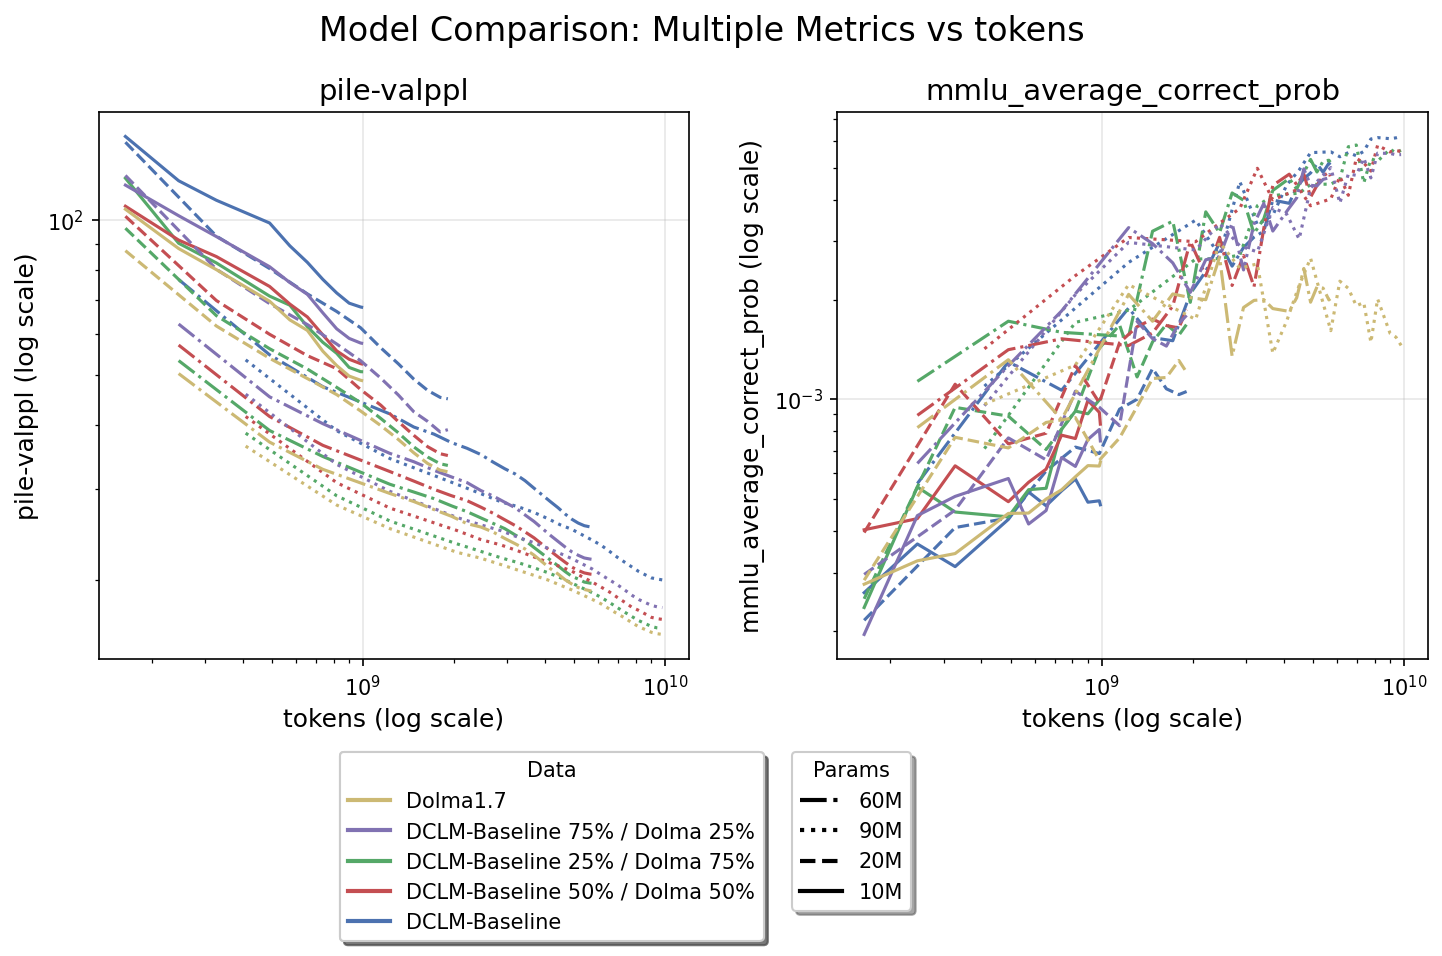
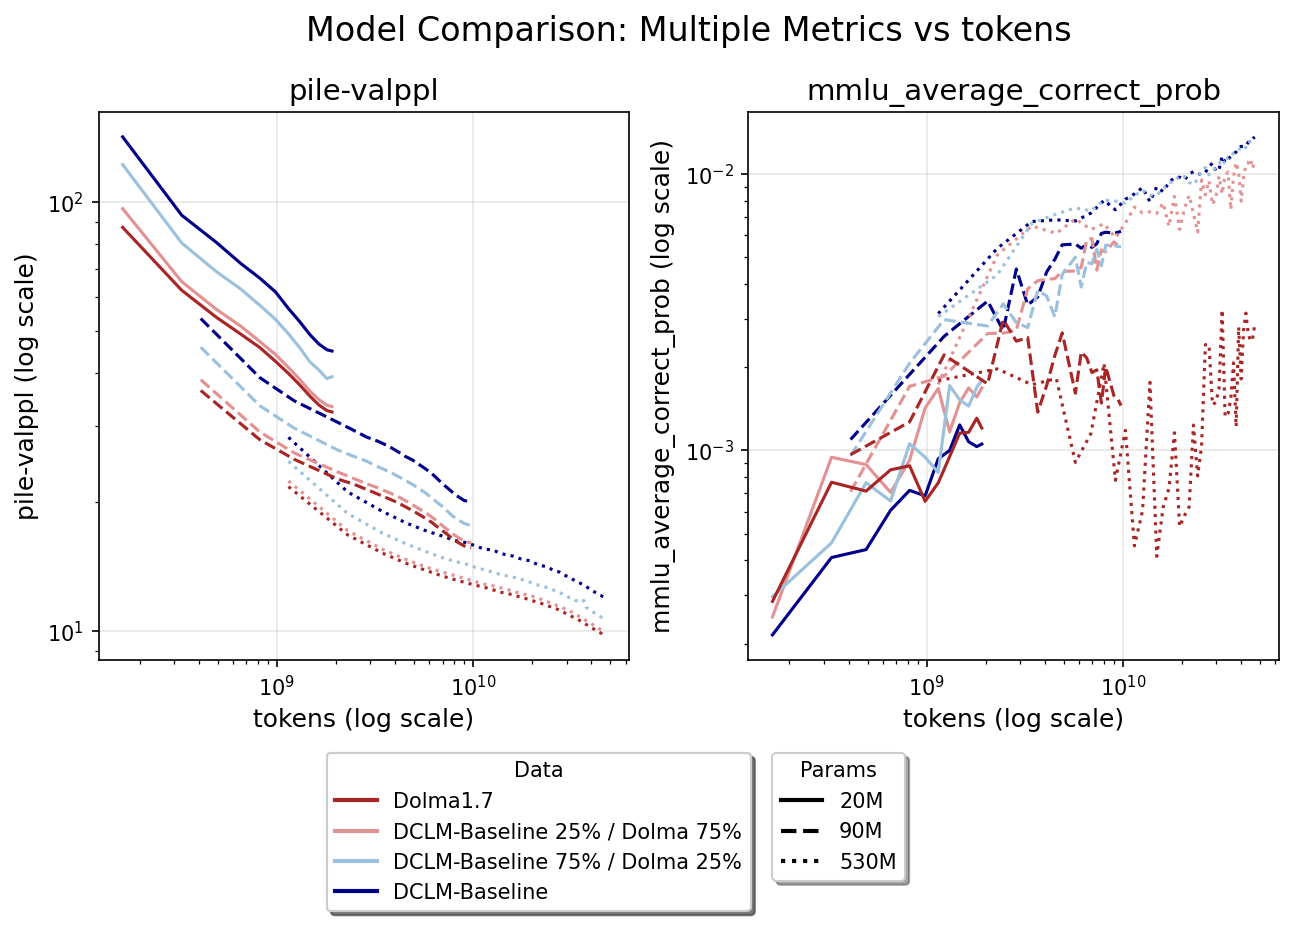
everything is formatted the way we want

diff --git a/scripts/test_plotting.py b/scripts/test_plotting.py
@@ -202,9 +202,59 @@ def add_grouped_legends_below(
             style_col_values.add(style_col_val)
             handle_map[(line_col_val, style_col_val)] = handle
 
-    # Convert to lists for consistent ordering
-    sorted_line_col_values = list(line_col_values)
-    sorted_style_col_values = list(style_col_values)
+    # Order the values according to the builder's configuration
+    # For line_col values
+    if line_col == "params" and builder.config.get("params_filter"):
+        # Use params_filter order
+        ordered_line_col_values = builder.config["params_filter"]
+        sorted_line_col_values = [
+            val for val in ordered_line_col_values if val in line_col_values
+        ]
+    elif line_col == "data" and builder.config.get("subplot_filter"):
+        # Use subplot_filter order (from with_data method)
+        ordered_line_col_values = builder.config["subplot_filter"]
+        sorted_line_col_values = [
+            val for val in ordered_line_col_values if val in line_col_values
+        ]
+    else:
+        # Fallback: Check if we're in Config 4 context (title contains "Multi-metric")
+        # and use the correct Config 4 data order
+        if (
+            hasattr(builder, "config")
+            and builder.config.get("title_prefix") == "Model Comparison"
+            and line_col == "data"
+        ):
+            # Use Config 4 data order specifically
+            config4_data_order = [
+                "Dolma1.7",
+                "DCLM-Baseline 25% / Dolma 75%",
+                "DCLM-Baseline 75% / Dolma 25%",
+                "DCLM-Baseline",
+            ]
+            sorted_line_col_values = [
+                val for val in config4_data_order if val in line_col_values
+            ]
+        else:
+            # Default fallback to the order they appear
+            sorted_line_col_values = list(line_col_values)
+
+    # For style_col values
+    style_col = builder.config.get("style_col")
+    if style_col == "params" and builder.config.get("params_filter"):
+        # Use params_filter order
+        ordered_style_col_values = builder.config["params_filter"]
+        sorted_style_col_values = [
+            val for val in ordered_style_col_values if val in style_col_values
+        ]
+    elif style_col == "data" and builder.config.get("subplot_filter"):
+        # Use subplot_filter order (from with_data method)
+        ordered_style_col_values = builder.config["subplot_filter"]
+        sorted_style_col_values = [
+            val for val in ordered_style_col_values if val in style_col_values
+        ]
+    else:
+        # Fallback to the order they appear
+        sorted_style_col_values = list(style_col_values)
 
     # Create custom Line2D elements for each group
     line_col_handles = []
@@ -404,7 +454,13 @@ def main():
             ncols=len(test_data),  # Single row matching number of data subplots
             figsize=(len(test_data) * 5, 5),  # Wider figure for single row
             sharey=True,  # Share y-axis across subplots
-            multi_color_sequence=["darkred", "lightcoral", "plum", "lightblue", "darkblue"],  # 5-color progression
+            multi_color_sequence=[
+                "darkred",
+                "lightcoral",
+                "plum",
+                "lightblue",
+                "darkblue",
+            ],  # 5-color progression
             color_range_min=0.0,  # Use full range for 5-color progression
             color_range_max=1.0,
         )
@@ -454,7 +510,13 @@ def main():
                 ncols=len(test_params),  # Single row matching number of param subplots
                 figsize=(len(test_params) * 5, 5),  # Wider figure for single row
                 sharey=True,  # Share y-axis across subplots
-                multi_color_sequence=["darkred", "lightcoral", "plum", "lightblue", "darkblue"],  # Same 5-color progression as Config 1
+                multi_color_sequence=[
+                    "darkred",
+                    "lightcoral",
+                    "plum",
+                    "lightblue",
+                    "darkblue",
+                ],  # Same 5-color progression as Config 1
                 color_range_min=0.0,  # Use full range for 5-color progression
                 color_range_max=1.0,
             )
@@ -478,14 +540,16 @@ def main():
         # Sort the DataFrame by data column according to test_data order before plotting (same as Config 2)
         # Create a mapping of data values to their position in test_data list
         data_order_map = {data_val: i for i, data_val in enumerate(test_data)}
-        
+
         # Add a temporary sort column and sort the DataFrame
         df_sorted_config3 = df.copy()
-        df_sorted_config3["_temp_data_order"] = df_sorted_config3["data"].map(data_order_map)
+        df_sorted_config3["_temp_data_order"] = df_sorted_config3["data"].map(
+            data_order_map
+        )
         df_sorted_config3 = df_sorted_config3.sort_values("_temp_data_order").drop(
             columns=["_temp_data_order"]
         )
-        
+
         # Another concise example showing different metric
         builder3 = (
             ScalingPlotBuilder(df_sorted_config3)  # Use sorted DataFrame
@@ -496,7 +560,13 @@ def main():
                 title_prefix="Config 3",
                 ncols=len(test_data),  # Single row matching number of data subplots
                 sharey=True,  # Share y-axis for this metric comparison
-                multi_color_sequence=["darkred", "lightcoral", "plum", "lightblue", "darkblue"],  # Same 5-color progression as Config 1
+                multi_color_sequence=[
+                    "darkred",
+                    "lightcoral",
+                    "plum",
+                    "lightblue",
+                    "darkblue",
+                ],  # Same 5-color progression as Config 1
                 color_range_min=0.0,  # Use full range for 5-color progression
                 color_range_max=1.0,
             )
@@ -520,12 +590,39 @@ def main():
         available_metrics = [m for m in test_metrics if m in df.columns]
         print(f"Available metrics: {available_metrics}")
 
+        # Create reduced lists for Config 4
+        config4_params = ["20M", "90M", "530M"]
+        config4_data = [
+            "Dolma1.7",
+            "DCLM-Baseline 25% / Dolma 75%",
+            # Drop: "DCLM-Baseline 50% / Dolma 50%",
+            "DCLM-Baseline 75% / Dolma 25%",
+            "DCLM-Baseline",
+        ]
+        config4_colors = ["darkred", "lightcoral", "lightblue", "darkblue"]  # Drop plum
+        config4_linestyles = ["-", "--", ":"]  # Drop dash-dot
+
         if available_metrics:
+            # Sort the DataFrame by data column according to config4_data order before plotting (same as Configs 2 and 3)
+            # Create a mapping of data values to their position in config4_data list
+            data_order_map = {data_val: i for i, data_val in enumerate(config4_data)}
+
+            # Add a temporary sort column and sort the DataFrame
+            df_sorted_config4 = df.copy()
+            df_sorted_config4["_temp_data_order"] = df_sorted_config4["data"].map(
+                data_order_map
+            )
+            df_sorted_config4 = df_sorted_config4.sort_values("_temp_data_order").drop(
+                columns=["_temp_data_order"]
+            )
+
             # Using ModelComparisonBuilder
             builder4 = (
-                ModelComparisonBuilder(df, available_metrics)
-                .with_params(test_params)
-                .with_data(test_data)
+                ModelComparisonBuilder(
+                    df_sorted_config4, available_metrics
+                )  # Use sorted DataFrame
+                .with_params(config4_params)
+                .with_data(config4_data)
                 .configure(
                     x_col="tokens",
                     line_col="data",  # Data recipes as different colors (hue)
@@ -533,13 +630,8 @@ def main():
                     ncols=2,  # Single row with 2 columns (for 2 metrics)
                     figsize=(10, 5),  # Wider figure for single row
                     sharey=False,  # Don't share y-axis (different metrics have different scales)
-                    multi_color_sequence=["darkred", "lightcoral", "plum", "lightblue", "darkblue"],  # Same 5-color progression for data recipes
-                    linestyle_sequence=[
-                        "-",
-                        "--",
-                        "-.",
-                        ":",
-                    ],  # Solid to dotted progression for model sizes
+                    multi_color_sequence=config4_colors,  # 4-color progression for data recipes (no plum)
+                    linestyle_sequence=config4_linestyles,  # 3 line styles for model sizes (no dash-dot)
                 )
             )
             fig4, fm4 = builder4.build()

diff --git a/src/datadec/plotting/model_comparison.py b/src/datadec/plotting/model_comparison.py
@@ -116,26 +116,46 @@ class ModelComparisonBuilder(BasePlotBuilder):
             
             # Apply sequential styling before plotting (only on first iteration to avoid resetting)
             if i == 0:  # Only set up cycles once for the entire figure
-                # Use sequential colormap if specified and line_col is params
-                if (self.config.get('colormap') and 
-                    self.config['line_col'] == 'params'):
+                # Use sequential colormap if specified  
+                if (self.config.get('colormap') or 
+                    (self.config.get('two_color_start') and self.config.get('two_color_end')) or
+                    self.config.get('multi_color_sequence')):
                     
-                    # Get unique parameter values for color mapping
+                    # Get unique values for this line_col, preserving original filter order if available
                     hue_values = self.plot_df[self.config['line_col']].unique().tolist()
+                    
+                    # Preserve original filter order if this column has a filter applied
+                    if self.config['line_col'] == 'params' and self.config.get('params_filter'):
+                        # For params as line_col, use params_filter order
+                        original_order = self.config['params_filter']
+                        hue_values = [val for val in original_order if val in hue_values]
+                    elif self.config['line_col'] == 'data' and self.config.get('subplot_filter'):
+                        # For data as line_col, use subplot_filter order (from with_data)
+                        original_order = self.config['subplot_filter'] 
+                        hue_values = [val for val in original_order if val in hue_values]
+                        
                     color_map = self._generate_sequential_colors(
                         hue_values, 
-                        self.config['colormap'],
+                        self.config.get('colormap', 'plasma'),
                         color_range_min=self.config.get('color_range_min', 0.1),
-                        color_range_max=self.config.get('color_range_max', 1.0)
+                        color_range_max=self.config.get('color_range_max', 1.0),
+                        two_color_start=self.config.get('two_color_start'),
+                        two_color_end=self.config.get('two_color_end'),
+                        multi_color_sequence=self.config.get('multi_color_sequence'),
+                        is_params=(self.config['line_col'] == 'params')
                     )
                     
                     # Override the FigureManager's shared style cycles with our sequential colors
                     import itertools
                     from datadec.model_utils import param_to_numeric
                     
-                    # Sort parameter values numerically to ensure proper progression
-                    sorted_params = sorted(hue_values, key=param_to_numeric)
-                    color_values = [color_map[val] for val in sorted_params]
+                    # Sort values to ensure proper progression (preserve order for non-params)
+                    if self.config['line_col'] == 'params':
+                        sorted_values = sorted(hue_values, key=param_to_numeric)
+                    else:
+                        # For non-parameters, preserve the input order (intentional data recipe quality order)
+                        sorted_values = hue_values
+                    color_values = [color_map[val] for val in sorted_values]
                     
                     # Override the shared style cycles that the StyleEngine uses
                     if not hasattr(self.fm, '_shared_style_cycles') or self.fm._shared_style_cycles is None:
